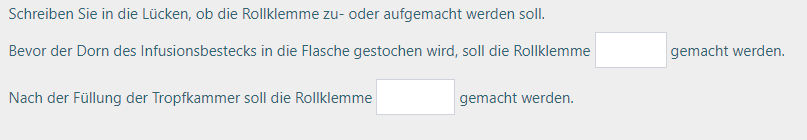
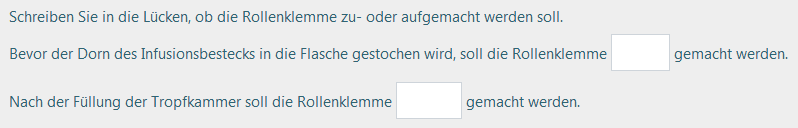
Durch korrigiert von Le

diff --git a/04_Implementation/implementation.tex b/04_Implementation/implementation.tex
@@ -111,7 +111,7 @@ Die Implementierung der WebVR Applikation ist der Schwerpunkt dieses Projektes. 
  \subsection{Zustände Management für Fortschritte}
  Im Kapitel Konzeption werden die Erkennung und Feedback Fortschritte thematisiert. In diesem Kapitel wird erklärt, wie die Fortschritte in der Applikation implementiert werden.
  
- Um die Fortschritte zu definieren, wird die Konzeption \glqq state container\grqq von der Technik Redux importiert. Jedes Objekt in der VR Szene hat einen eigenen Zustand, zum Beispiel Position. Die betreffenden Zustände werden geändert, wenn der Prozess der Applikation betrieben wird. Die Sammlung der Zustände der ganzen Objekten wird als \glqq state container\grqq bezeichnet. Durch die Kombination der Zustände wird der Fortschritt der Übung notiert.
+ Um die Fortschritte zu definieren, wird die Konzeption \glqq state container\grqq\ von der Technik Redux importiert. Jedes Objekt in der VR Szene hat einen eigenen Zustand, zum Beispiel Position. Die betreffenden Zustände werden geändert, wenn der Prozess der Applikation betrieben wird. Die Sammlung der Zustände der ganzen Objekten wird als \glqq state container\grqq\ bezeichnet. Durch die Kombination der Zustände wird der Fortschritt der Übung notiert.
  
  Wenn eine Aktivität auf dem Objekt durchgeführt wird, wird zuerst die Interaktion auf einem Objekt erkannt. Danach werden die betroffenen Zustände geändert. Laut der Änderung der Zustände wird die entsprechende Aktivität des Objektes durchgeführt, was als Feedback an dem Benutzer geht. (Abbildung ~\ref{fig:interaktionVerlauf})
  
@@ -122,12 +122,12 @@ Die Implementierung der WebVR Applikation ist der Schwerpunkt dieses Projektes. 
 \label{fig:interaktionVerlauf} 
 \end{figure}
  
-  \subsubsection{Beobachter (en. Observer Pattern)}
-  Beobachter ist ein Entwurfsmuster (en. Design Pattern) aus dem Bereich Softwareentwicklung. Es ist dafür geeignet, um das Zustandsmanagement zu implementieren.
+  \subsubsection{Beobachter (engl. Observer Pattern)}
+  Beobachter ist ein Entwurfsmuster (engl. Design Pattern) aus dem Bereich Softwareentwicklung. Es ist dafür geeignet, um das Zustandsmanagement zu implementieren.
   
-  Die Funktionalität davon ist ähnlich wie der Mechanismus von Twitter. Zum Beispiel Linus Torvalds \citep{42} von der Socialmediaplattform Twitter, die es seit 2012 gibt und wo Nutzer einen Account anlegen und anderen Nutzern \glqq folgen \grqq\ können. Bei Posts einer gefolgten Person werden die \glqq Folgenden \grqq\ benachrichtigt. (Abbildung ~\ref{fig:observerPatern})
+  Die Funktionalität davon ist ähnlich wie der Mechanismus von Twitter. Zum Beispiel Linus Torvalds \citep{42} von der Socialmediaplattform Twitter, die es seit 2012 gibt und wo Nutzer einen Account anlegen und anderen Nutzern \glqq folgen\grqq\ können. Bei Posts einer gefolgten Person werden die \glqq Folgenden\grqq\ benachrichtigt. (Abbildung ~\ref{fig:observerPatern})
   
-  Im Bereich Softwareentwicklung wird der Gefolgten als \glqq Observable\grqq oder \glqq Subject\grqq bezeichnet. Die Folgenden werden als \glqq Observer\grqq bezeichnet. Die Aktivität \glqq follow\grqq ist \glqq Subscribe\grqq. Die Benachrichtigung heißt \glqq Notify\grqq.
+  Im Bereich Softwareentwicklung wird der Gefolgten als \glqq Observable\grqq\ oder \glqq Subject\grqq\ bezeichnet. Die Folgenden werden als \glqq Observer\grqq\ bezeichnet. Die Aktivität \glqq follow\grqq\ ist \glqq Subscribe\grqq\. Die Benachrichtigung heißt \glqq Notify\grqq.
   
 \begin{figure}[ht]
 \centering
@@ -222,7 +222,7 @@ export default class stateIndex {
                 if (
                     document.querySelector('#nacl500Bottle')
                     && document.querySelector('#nacl500Cap')
-                    && // other objects
+                    && // other objects here ...
                 ) {
                     this.selectSection(selectedSection);
                     window.clearInterval(setSectionStillElementsLoaded);
@@ -276,7 +276,7 @@ export default class stateIndex {
  
  Allerdings muss die Struktur von Component wegen der Nutzung von Observer Pattern neu gestaltet werden.
  
- Der Code der Klasse {\fontfamily{qcr}\selectfont Observable} hat gezeigt, dass die Parameter der Funktion {\fontfamily{qcr}\selectfont subscribe} eine Funktion sein sollen. Aber die Funktionen, die in der Klasse definiert werden, gelten nicht als eine bestimmte Funktion bei JavaScript. Deshalb müssen die Funktionen, die als \glqq observer\grqq benutzt werden, außerhalb der Klasse definiert werden, sodass die Entitäten der Klasse die Nachrichten von \glqq observable\grqq\ empfangen können. Das führt zu einer suboptimalen Situation, dass alle Entität, die durch die gleiche Klasse erstellt werden, dieselben Funktionen und Eigenschaften benutzen. (Abbildung ~\ref{fig:eigenesClass})
+ Der Code der Klasse {\fontfamily{qcr}\selectfont Observable} hat gezeigt, dass die Parameter der Funktion {\fontfamily{qcr}\selectfont subscribe} eine Funktion sein sollen. Aber die Funktionen, die in der Klasse definiert werden, gelten nicht als eine bestimmte Funktion bei JavaScript. Deshalb müssen die Funktionen, die als \glqq observer\grqq\ benutzt werden, außerhalb der Klasse definiert werden, sodass die Entitäten der Klasse die Nachrichten von \glqq observable\grqq\ empfangen können. Das führt zu einer suboptimalen Situation, dass alle Entität, die durch die gleiche Klasse erstellt werden, dieselben Funktionen und Eigenschaften benutzen. (Abbildung ~\ref{fig:eigenesClass})
  
  Obwohl die Struktur der Klasse sich der Philosophie von A-Frame nicht anpasst, ist es praktisch und geeignet für dieses Projekt, weil fast alle Klassen nur eine einzige Entität in der Szene haben.
  
@@ -354,7 +354,7 @@ export default AFRAME.registerComponent('class', {
 });
 export function handleNotify(event) {
     elements.forEach((element) => {
-        element.trigger('getNewSatete', event);
+        element.trigger('getNewState', event);
     });
 }
 \end{lstlisting}
@@ -379,7 +379,7 @@ export function handleNotify(event) {
   
   Wenn die Eigenschaft {\fontfamily{qcr}\selectfont pointerLockEnabled} von {\fontfamily{qcr}\selectfont look-controls}  als {\fontfamily{qcr}\selectfont true} eingerichtet wird, wird der Zeiger auf PC durch einen Klick auf die Maus versteckt, und die Kamera wird durch die Bewegung der Maus gedreht. Wenn die ESC Taste auf der Tastatur gedrückt wird, wird der Zeiger wieder gezeigt, und die Maus verliert die Kontrolle über die Rotation der Kamera.
   
-  Außerdem ist es möglich, durch das Ziehen auf dem Smartphone die Kamera zu drehen, wenn die Eigenschaft {\fontfamily{qcr}\selectfont touchEnabled} als {\fontfamily{qcr}\selectfont true} konfiguriert ist. {\fontfamily{qcr}\selectfont true} ist die Standardeinstellung für{\fontfamily{qcr}\selectfont touchEnabled}, deswegen muss das Attribut nicht extra eingerichtet werden.
+  Außerdem ist es möglich, durch das Ziehen auf dem Smartphone die Kamera zu drehen, wenn die Eigenschaft {\fontfamily{qcr}\selectfont touchEnabled} als {\fontfamily{qcr}\selectfont true} konfiguriert ist. {\fontfamily{qcr}\selectfont true} ist die Standardeinstellung für {\fontfamily{qcr}\selectfont touchEnabled}, deswegen muss das Attribut nicht extra eingerichtet werden.
   
   \vspace{1em}
   \noindent
@@ -594,7 +594,7 @@ export default AFRAME.registerComponent('cursor-submit', {
   
   Das Element von Gear VR Controller wird mit dem Element der Kamera zusammen in dem Element mit ID {\fontfamily{qcr}\selectfont cameraRig} eingepackt. Die Bewegung der Kamera wird durch die Translation von {\fontfamily{qcr}\selectfont cameraRig} ermöglicht, sodass die relative Position zwischen der Kamera und dem Controller während der Bewegung behalten wird.
   
-  Mit dem built-in Component {\fontfamily{qcr}\selectfont teleport-controls} wird die Navigation implementiert. Das Attribut{\fontfamily{qcr}\selectfont cameraRig} beschreibt das Element, das sich zu der bezeichneten Position bewegt. Das Attribut {\fontfamily{qcr}\selectfont teleportOrigin} beschreibt das Element, das als der Ursprung des Elements {\fontfamily{qcr}\selectfont cameraRig} gilt.
+  Mit dem built-in Component {\fontfamily{qcr}\selectfont teleport-controls} wird die Navigation implementiert. Das Attribut {\fontfamily{qcr}\selectfont cameraRig} beschreibt das Element, das sich zu der bezeichneten Position bewegt. Das Attribut {\fontfamily{qcr}\selectfont teleportOrigin} beschreibt das Element, das als der Ursprung des Elements {\fontfamily{qcr}\selectfont cameraRig} gilt.
   
   Wenn das Trackpad auf dem Gear VR Controller gedrückt wird, wird die Position festgelegt. Solange der Trackpad losgelöst wird, bewegt sich das Element {\fontfamily{qcr}\selectfont cameraRig} zu der festgelegten Position. Die Position der Kamera auf den X und Z Achsen sind die gleichen wie die festgelegten Positionen.
   
@@ -930,7 +930,7 @@ export function getWorldBound(element) {
   \subsubsection{Möglichkeit der Verbesserung}
   Die kürzere Ladezeit der Applikation führt zur besseren Benutzererfahrung. Die Größe der Dateien spielt eine wichtige Rolle bei der Ladung.
   
-  Nicht alle Geräte können sich mit der HTC Vive verbinden, deswegen wäre es besser, dass die Codes, die mit HTC Vive zu tun haben, in eone eigene Datei geschrieben und in einem Verzeichnis gespeichert werden. Dieses Verzeichnis wird geladen, nur wenn die HTC Vive Controller erkannt werden.
+  Nicht alle Geräte können sich mit der HTC Vive verbinden, deswegen wäre es besser, dass die Codes, die mit HTC Vive zu tun haben, in eine eigene Datei geschrieben und in einem Verzeichnis gespeichert werden. Dieses Verzeichnis wird geladen, nur wenn die HTC Vive Controller erkannt werden.
   
   So wird die Ladezeit für die Geräte, außer der HTC Vive, verringert.
   
@@ -995,7 +995,7 @@ export function playSubmitSound() {
  \subsection{Arbeitsoberflächendesinfektion auf der Vive}
  Das Feedback der Desinfektion der Arbeitsoberfläche wird durch eine Hinweis-Box über dem Mülleimer und zwei versteckten Umschaltern auf der Arbeitsoberfläche implementiert.
  
- Solange ein Desinfektionstuch in Hder and gehalten wird, wird eine rote Hinweis-Box über dem Mülleimer dargestellt, um die Botschaft zu vermitteln, dass das Tuch und Handschuhe in den Mülleimer eingeworfen werden sollen, aber nicht zu der Zeit, wo die Voraussetzung (Desinfektion der Arbeitsoberfläche) noch nicht erfüllt wird.
+ Solange ein Desinfektionstuch in Hand gehalten wird, wird eine rote Hinweis-Box über dem Mülleimer dargestellt, um die Botschaft zu vermitteln, dass das Tuch und Handschuhe in den Mülleimer eingeworfen werden sollen, aber nicht zu der Zeit, wo die Voraussetzung (Desinfektion der Arbeitsoberfläche) noch nicht erfüllt wird.
  
  Gleichzeitig überprüfen die zwei Umschalter alle 0.5 Sekunden, ob die Kollision zwischen dem Tuch und dem Umschalter erkannt wird. Wenn ein Schalter das Tuch getroffen hat, wird der entsprechende Zustand für den Vive Controller als {\fontfamily{qcr}\selectfont true} gesetzt.
  
@@ -1079,7 +1079,7 @@ export default aAnimationWrapper;
  
  Durch das {\fontfamily{qcr}\selectfont a-animation} Element kann das ganze Objekt animiert werden. Um kompliziertere Animationen zu realisieren, wird das Objekt während der Modellierung direkt animiert.
  
- Das Hand Modell wird in Blender animiert. Zuerst wird das Skelett für die Hand erstellt. Mit der Funktion \glqq Set Parent To \grqq\ können das Modell und die Skelett zusammen verbinden. Durch \glqq Key Frame\grqq\ kann die Hand animiert werden. (Abbildung ~\ref{fig:handSetParentTo} \& Abbildung ~\ref{fig:handKeyframes})
+ Das Hand Modell wird in Blender animiert. Zuerst wird das Skelett für die Hand erstellt. Mit der Funktion \glqq Set Parent To\grqq\ können das Modell und die Skelett zusammen verbinden. Durch \glqq Key Frame\grqq\ kann die Hand animiert werden. (Abbildung ~\ref{fig:handSetParentTo} \& Abbildung ~\ref{fig:handKeyframes})
  
 \begin{figure}[ht]
 \vspace*{1em}

diff --git a/03_Concept/concept.tex b/03_Concept/concept.tex
@@ -267,7 +267,7 @@ In diesem Projekt wurde die fehlerhafte Modellierung ausgebessert, sodass nun an
   \vspace{1em}
   
   \noindent
-  Der Form des Zeigers ist die gleich wie auf dem Laptop. Da auf einem Smartphone keine Maus zu Verfügung steht, wird die Bestätigung des Zeigers durch \glqq blickbasierte Selektion\grqq\ (eng. gaze) ausgeführt. Wenn der Zeiger ca. 0,5 Sekunde auf einem Objekt verharrt, wird dadurch die Aktion des jeweiligen Objecktes initiiert.
+  Der Form des Zeigers ist die gleich wie auf dem Laptop. Da auf einem Smartphone keine Maus zu Verfügung steht, wird die Bestätigung des Zeigers durch \glqq blickbasierte Selektion\grqq\ (engl. gaze) ausgeführt. Wenn der Zeiger ca. 0,5 Sekunde auf einem Objekt verharrt, wird dadurch die Aktion des jeweiligen Objecktes initiiert.
   
  \subsubsection{Samsung Gear VR}
  Samsung Gear VR ist ein gut verbreitetes mobile HMD im Markt. Es ist ein typisch 3 Dof HMD. Gear VR kann mit oder ohne Controller benutzt werden.
@@ -384,7 +384,7 @@ HTC Vive                                                                    & Ko
  \subsection{Geräusche}
  Die entsprechenden Geräusche können nicht nur die Lebendigkeit der VR Umgebung verstärken, sondern auch das Feedback der Interaktion verdeutlichen.
  \subsubsection{VR Umgebung}
- Um eine möglichst realitätsnahenahe VR Umgebung darzustellen, sollen erst die realen Geräusche aufgenommen werden, weil reale Geräusche die Materialien der Objekten widerspiegeln können. Die Position, wo die Geräusche erklingen, werden für jedes Objekt angepasst, da die räumliche Erkennung durch die auditive Wahrnehmung gemacht werden kann. Die Geräusche für die Objekte müssen mit der Animation synchronisiert werden, sodass die Lebendigkeit verstärkt wird.
+ Um eine möglichst realitätsnahe VR Umgebung darzustellen, sollen erst die realen Geräusche aufgenommen werden, weil reale Geräusche die Materialien der Objekten widerspiegeln können. Die Position, wo die Geräusche erklingen, werden für jedes Objekt angepasst, da die räumliche Erkennung durch die auditive Wahrnehmung gemacht werden kann. Die Geräusche für die Objekte müssen mit der Animation synchronisiert werden, sodass die Lebendigkeit verstärkt wird.
  
  \subsubsection{Feedback der Interaktionen}
  Als ein Feedback der Interaktion spielen Geräusche eine wichtige Rolle. Die Geräusche für Interaktion sind keine realen Geräusche, sondern die Töne (Soundeffekt), die für bestimmte Interaktion geeignet sind.
@@ -454,7 +454,7 @@ HTC Vive                                                                    & Ko
   \subsubsection{Erkennung \& Feedback der Fortschritte}
   Der Prozess in der Übung schreitet durch die Durchführung einer richtigen Aktivität voran. Wenn eine Aktion des Objektes zur richtigen Zeit durchgeführt wird, wird der Fortschritt erkannt. Die Erkennungen müssen durch die oben genannten Interaktionen nämlich Manipulationen der VR Geräten bewältigt werden.
   
-  Auf dem PC, einem Smartphone und der Gear VR führt eine geeignete Manipulation zu einem Fortschritt. Allerdings ist es bei der HTC Vive anders, weil die 6 DoF Geräte mehr Freiheit bezüglich der Interaktion haben. Zum Beispiel führt das Aufheben eines gefallenen Objektes dzu keinem Fortschritt in der Übung. 
+  Auf dem PC, einem Smartphone und der Gear VR führt eine geeignete Manipulation zu einem Fortschritt. Allerdings ist es bei der HTC Vive anders, weil die 6 DoF Geräte mehr Freiheit bezüglich der Interaktion haben. Zum Beispiel führt das Aufheben eines gefallenen Objektes dazu keinem Fortschritt in der Übung. 
   
   Das Feedback des Fortschritts bietet den Bescheid, dass die aktuelle Aufgabe erledigt wird und die nächste Aufgabe gemacht werden soll. Das Feedbacks wird meistens im Form von Animationen (Translation und Rotation) des Objektes gegeben. Außerdem kann das Feedback durch die Änderung der Eigenschaft (Sichtbarkeit, Farbe) gegeben werden. Zum Beispiel wird ein Haken vor dem Namen dargestellt, wenn der Name von dem Patienten in der Akte überprüft wird.
   

diff --git a/05_Evaluation/evaluation.tex b/05_Evaluation/evaluation.tex
@@ -42,12 +42,12 @@ Da die VR Übung in dem Learning Management System Moodle integriert wird, kann 
     
     \item \textbf{Status der Rollenkleme}
     
-    Während der Infusionsvorbereitung ist es wichtig, die Rollkleme zu den entsprechenden Zeitpunkten zu öffnen und zu schließen. Durch die Aufgabe wird überprüft, ob sich der Lernende die richtigen Zeitpunkte gemerkt hat. (Abbildung ~\ref{fig:Aufgabe3})
+    Während der Infusionsvorbereitung ist es wichtig, die Rollenklemme zu den entsprechenden Zeitpunkten zu öffnen und zu schließen. Durch die Aufgabe wird überprüft, ob sich der Lernende die richtigen Zeitpunkte gemerkt hat. (Abbildung ~\ref{fig:Aufgabe3})
     
 \begin{figure}[ht]
 \vspace*{1em}
 \centering
-\caption{Aufgabe: Rollklemme}
+\caption{Aufgabe: Rollenklemme}
 \includegraphics[width= \textwidth]{images/Aufgabe3.png}
 \label{fig:Aufgabe3} 
 \end{figure}
@@ -185,11 +185,12 @@ Nach dem Lernen mit dem Unterricht können die Versuchspersonen mindesten 84 Pun
 Die Testergebnisse nach der VR Übung für alle Geräte sind deutlich besser als vor der VR Übung. Die Verbesserungen mit PC (44.0\%) und HTC Vive (43.3\%) sind fast gleich und viel gravierender als mit dem Smartphone (12.9\%).
 
 \begin{figure}[ht]
-\vspace*{1em}
+\vspace*{2.3em}
 \centering
 \caption{Vergleich des Lerneffektes}
 \includegraphics[width= \textwidth]{images/testErgebnisse.png}
-\label{fig:testErgebnisse} 
+\label{fig:testErgebnisse}
+\vspace*{1em}
 \end{figure}
 
 \subsection{Benutzererfahrung}
@@ -285,7 +286,7 @@ Durch die Analyse der gesammelten Daten, werden die Erfolge und die Probleme des
     
     \item \textbf{Fehlen des Feedback nach der Prüfung für Infusionsflasche und Infusionsbesteck mit PC und Smartphone}
     
-    Wenn PC und Smartphone benutzt werden, gelten die Bewegungen der der Infusionsflasche und der Infusionsbesteck als die Feedbacks der Prüfung anstelle des Haken auf den geprüften Positionen. Allerdings ist ein solches Feedback nicht deutlich, sodass die Schwerpunkte der Überprüfung nicht gemerkt werden.
+    Wenn PC und Smartphone benutzt werden, gelten die Bewegungen der Infusionsflasche und der Infusionsbesteck als die Feedbacks der Prüfung anstelle des Haken auf den geprüften Positionen. Allerdings ist ein solches Feedback nicht deutlich, sodass die Schwerpunkte der Überprüfung nicht gemerkt werden.
     
     Um das Problem zu lösen, sollen die Haken nach der entsprechenden Prüfung dargestellt werden.
 \end{itemize}

diff --git a/06_Discussion/discussion.tex b/06_Discussion/discussion.tex
@@ -34,7 +34,7 @@ Bei dem Framework A-Frame fehlt es zurzeit noch an wichtigen built-in Funktionen
 \begin{itemize}
     \item \textbf{Mangel an built-in Funktionen}: Bei A-Frame fehlen wichtig Funktionen wie Kollisionserkennung und freier Fall, die von Unity und Unreal Engine als buit-in Funktionen geboten werden. Das führt zu hohem Zeitaufwand und schlechter Qualität der Applikation, wenn nicht genügend Zeit zu Verfügung steht.
     
-    \item \textbf{Schlechte Erfahrung bei Debug}: Breakpoint ist ein hilfreiches Debug-Werkzeug für Software Entwicklung. In Browser wird auch das Breakpoint geboten. Allerdings passt es nicht an der Entwicklung von HTC Vive. Wenn die WebVR Applikation sich durch breakpoint pausiert, wird die VR Umgebung nach dem Übersprung des Breakpints nicht mehr in HMD gezeigt, so dass das Debuggen nur mit der Funktion \glqq console.log() \grqq\ durchgeführt werden kann, was zu hohem Zeitaufwand führt.
+    \item \textbf{Schlechte Erfahrung bei Debug}: Breakpoint ist ein hilfreiches Debug-Werkzeug für Software Entwicklung. In Browser wird auch das Breakpoint geboten. Allerdings passt es nicht an der Entwicklung von HTC Vive. Wenn die WebVR Applikation sich durch breakpoint pausiert, wird die VR Umgebung nach dem Übersprung des Breakpints nicht mehr in HMD gezeigt, so dass das Debuggen nur mit der Funktion {\fontfamily{qcr}\selectfont console.log()} durchgeführt werden kann, was zu hohem Zeitaufwand führt.
     
 \end{itemize}
 

diff --git a/01_Introduction/introduction.tex b/01_Introduction/introduction.tex
@@ -18,7 +18,7 @@ Le Zhang
 
 \chapter{Einleitung}
 
-Diese Arbeit beschreibt die Entwicklung eines Projektes, einen Unterricht über die Vorbereitung einer Infusion auf einem Lern-Managment-System (eng. Learning Managment System) einzusetzen, deren Übung mit der WebVR Technik durchgeführt wird.
+Diese Arbeit beschreibt die Entwicklung eines Projektes, einen Unterricht über die Vorbereitung einer Infusion auf einem Lern-Managment-System (engl. Learning Managment System) einzusetzen, deren Übung mit der WebVR Technik durchgeführt wird.
 
 \section{Motivation}
 
